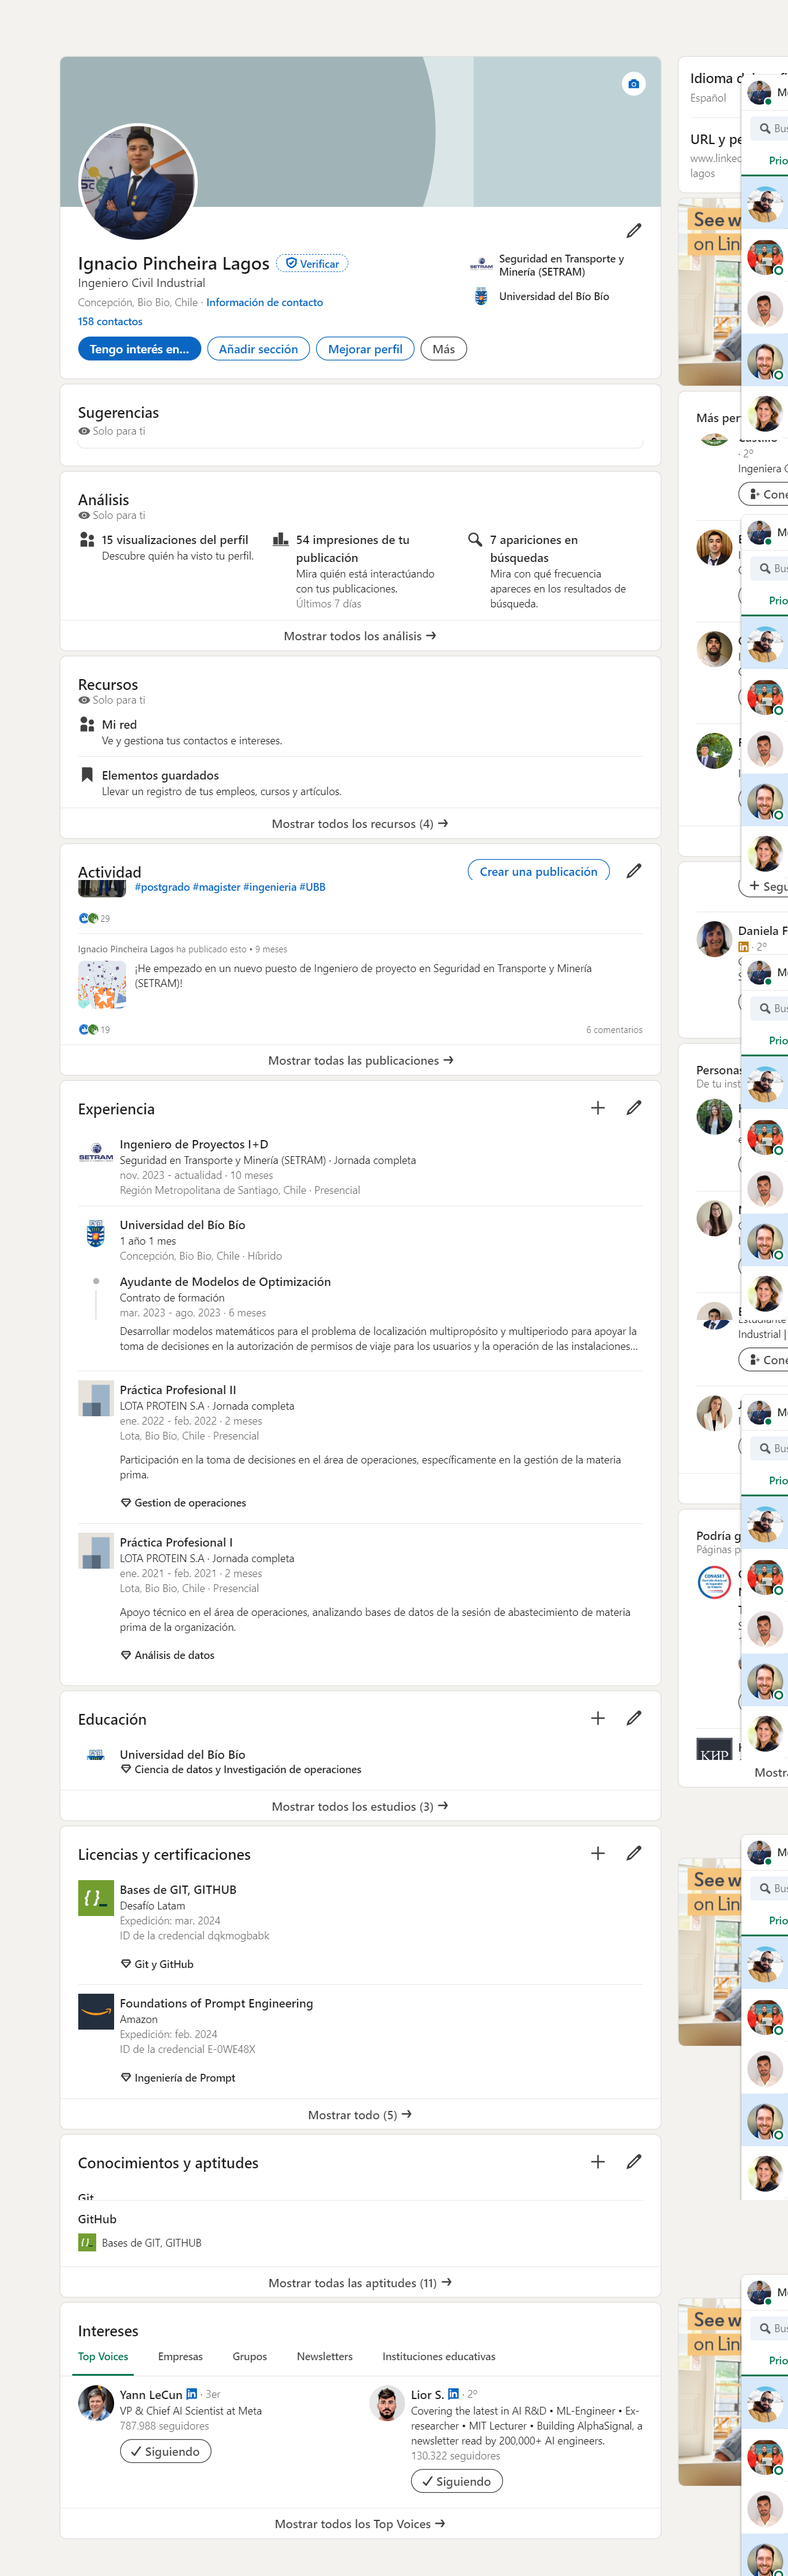
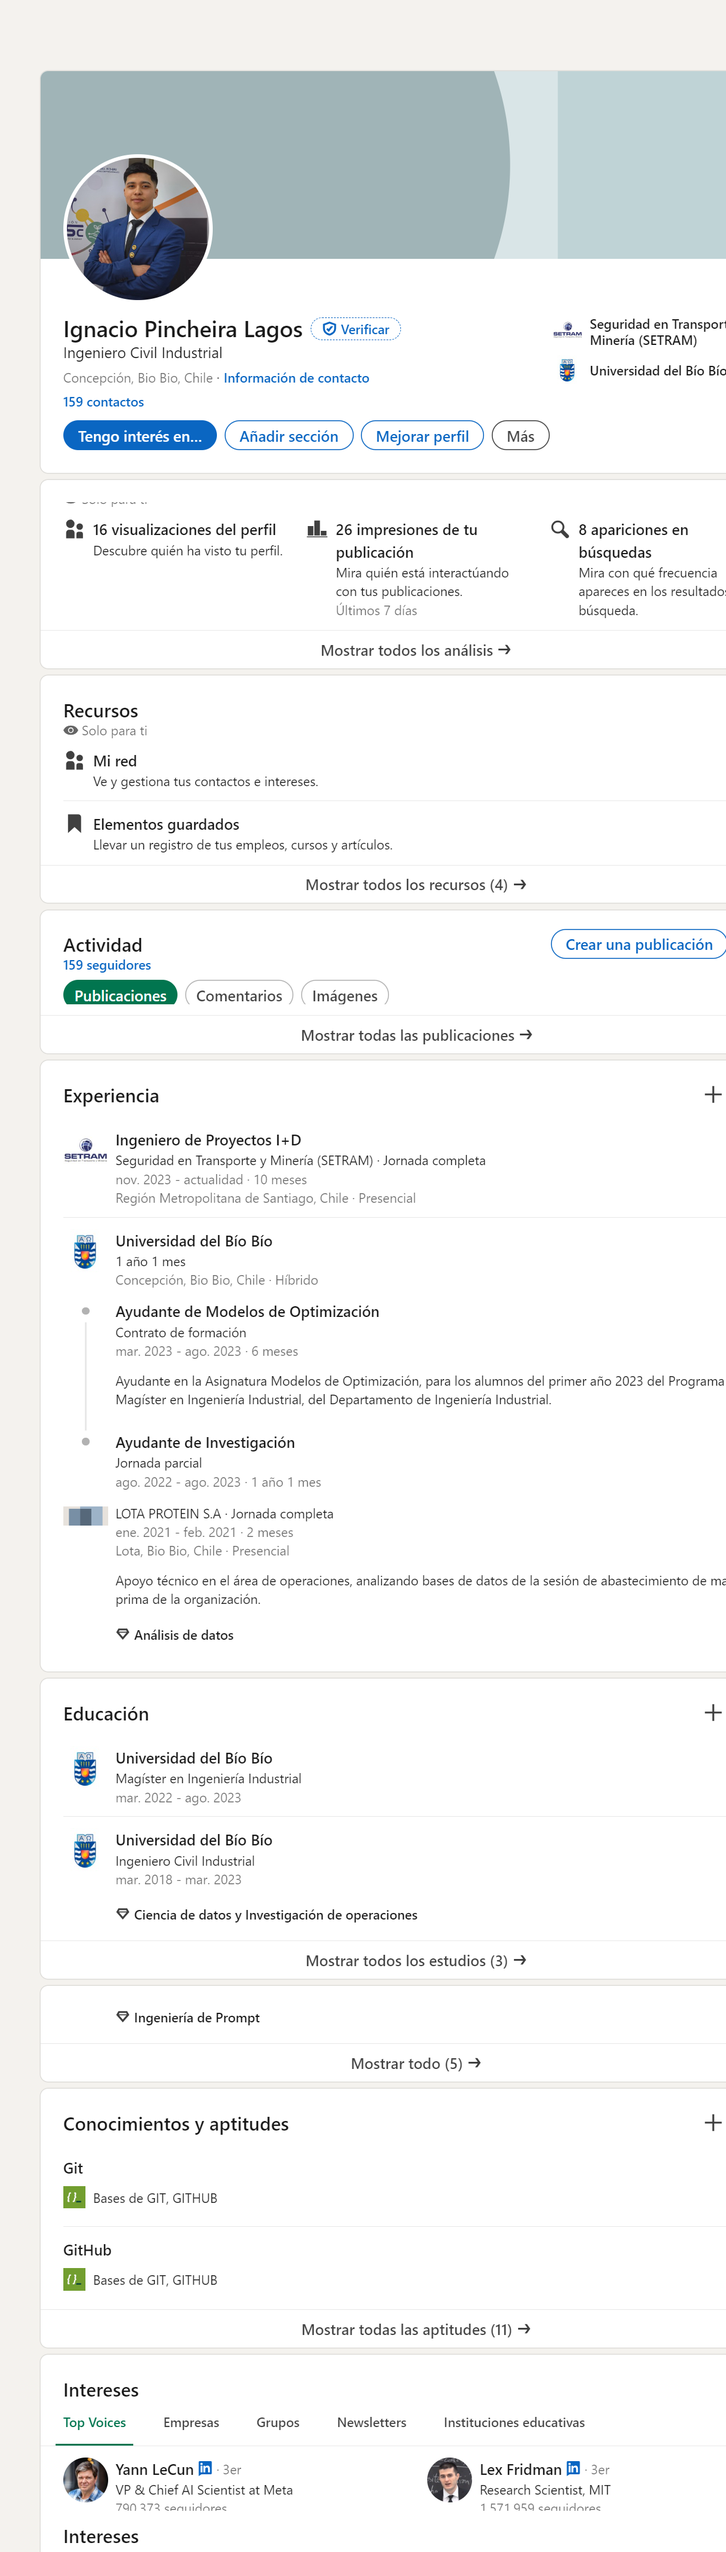
captura_seccion_foto

diff --git a/captura.py b/captura.py
@@ -11,18 +11,24 @@ from selenium.webdriver.common.by import By
 from selenium.webdriver.support.ui import WebDriverWait
 from selenium.webdriver.support import expected_conditions as EC
 
-def configurar_driver_con_perfil():
+def configurar_driver_con_perfil_y_extension():
     options = Options()
     options.add_argument("--no-sandbox")
     options.add_argument("--disable-dev-shm-usage")
     options.add_argument("user-agent=Mozilla/5.0 (Windows NT 10.0; Win64; x64) AppleWebKit/537.36 (KHTML, like Gecko) Chrome/91.0.4472.124 Safari/537.36")
     
-    # Usar el perfil temporal que configuraste
+    # Ruta del perfil donde se encuentra la extensión
     profile_path = "C:/TempChromeProfile"
     options.add_argument(f"user-data-dir={profile_path}")
     
+    # Asegurar que las extensiones se carguen
+    options.add_argument("--load-extension=/ruta/de/la/extension")  # Reemplaza esta ruta con la ruta de tu extensión
+
     service = Service(ChromeDriverManager().install())
     driver = webdriver.Chrome(service=service, options=options)
+
+    # Maximizar la ventana del navegador
+    driver.maximize_window()
     
     return driver
 
@@ -58,10 +64,8 @@ def capturar_pantalla_completa(driver, file_path):
     total_width = driver.execute_script("return document.body.scrollWidth")
     total_height = driver.execute_script("return document.body.scrollHeight")
 
-    driver.set_window_size(total_width, total_height)
-    
-    viewport_width = driver.execute_script("return window.innerWidth")
-    viewport_height = driver.execute_script("return window.innerHeight")
+    # Mantener el tamaño original de la ventana ya maximizada
+    original_size = driver.get_window_size()
     
     stitched_image = Image.new('RGB', (total_width, total_height))
     
@@ -77,7 +81,7 @@ def capturar_pantalla_completa(driver, file_path):
 
         stitched_image.paste(screenshot, (0, y_position))
         
-        y_position += viewport_height
+        y_position += original_size['height']
         part += 1
 
         os.remove(screenshot_path)
@@ -85,7 +89,21 @@ def capturar_pantalla_completa(driver, file_path):
     stitched_image.save(file_path)
     print(f"Captura de pantalla completa guardada en {file_path}")
 
-def obtener_perfiles_linkedin(desde_archivo, email, password, output_dir):
+def capturar_pantalla_parcial(driver, file_path):
+    try:
+        # Asegurarse de que la página esté en la parte superior antes de capturar
+        driver.execute_script("window.scrollTo(0, 0);")
+        time.sleep(0.5)  # Dar tiempo para que la página se acomode en la parte superior
+
+        # Capturar la pantalla completa en ese punto sin cambiar el tamaño
+        screenshot = driver.get_screenshot_as_png()
+        with open(file_path, "wb") as f:
+            f.write(screenshot)
+        print(f"Captura parcial (parte superior) guardada en {file_path}")
+    except Exception as e:
+        print(f"Error al capturar la pantalla parcial: {str(e)}")
+
+def obtener_perfiles_linkedin(desde_archivo, email, password, output_dir_completo, output_dir_parcial):
     # Leer el archivo Excel con las URLs
     df = pd.read_excel(desde_archivo)
 
@@ -95,7 +113,7 @@ def obtener_perfiles_linkedin(desde_archivo, email, password, output_dir):
         return
     
     # Configurar el driver
-    driver = configurar_driver_con_perfil()
+    driver = configurar_driver_con_perfil_y_extension()
     
     try:
         # Iniciar sesión en LinkedIn
@@ -110,8 +128,14 @@ def obtener_perfiles_linkedin(desde_archivo, email, password, output_dir):
             
             # Crear el nombre del archivo basándose en el identificador de LinkedIn
             file_name = f"{url.split('/')[-2]}.png"
-            file_path = os.path.join(output_dir, file_name)
-            capturar_pantalla_completa(driver, file_path)
+            
+            # Captura completa
+            file_path_completo = os.path.join(output_dir_completo, file_name)
+            capturar_pantalla_completa(driver, file_path_completo)
+            
+            # Captura parcial (solo la primera pantalla)
+            file_path_parcial = os.path.join(output_dir_parcial, file_name)
+            capturar_pantalla_parcial(driver, file_path_parcial)
 
     except Exception as e:
         print(f"Error al procesar los perfiles: {str(e)}")
@@ -122,9 +146,17 @@ if __name__ == "__main__":
     desde_archivo = "prueba_url.xlsx"  # Archivo Excel con las URLs de LinkedIn
     email = input("Introduce tu correo electrónico de LinkedIn: ")
     password = input("Introduce tu contraseña de LinkedIn: ")
-    output_dir = "capturas_linkedin"
     
-    if not os.path.exists(output_dir):
-        os.makedirs(output_dir)
+    # Carpetas de salida
+    output_dir_completo = "capturas_linkedin"
+    output_dir_parcial = "captura_1"
     
-    obtener_perfiles_linkedin(desde_archivo, email, password, output_dir)
+    # Crear carpetas si no existen
+    if not os.path.exists(output_dir_completo):
+        os.makedirs(output_dir_completo)
+    
+    if not os.path.exists(output_dir_parcial):
+        os.makedirs(output_dir_parcial)
+    
+    obtener_perfiles_linkedin(desde_archivo, email, password, output_dir_completo, output_dir_parcial)
+
